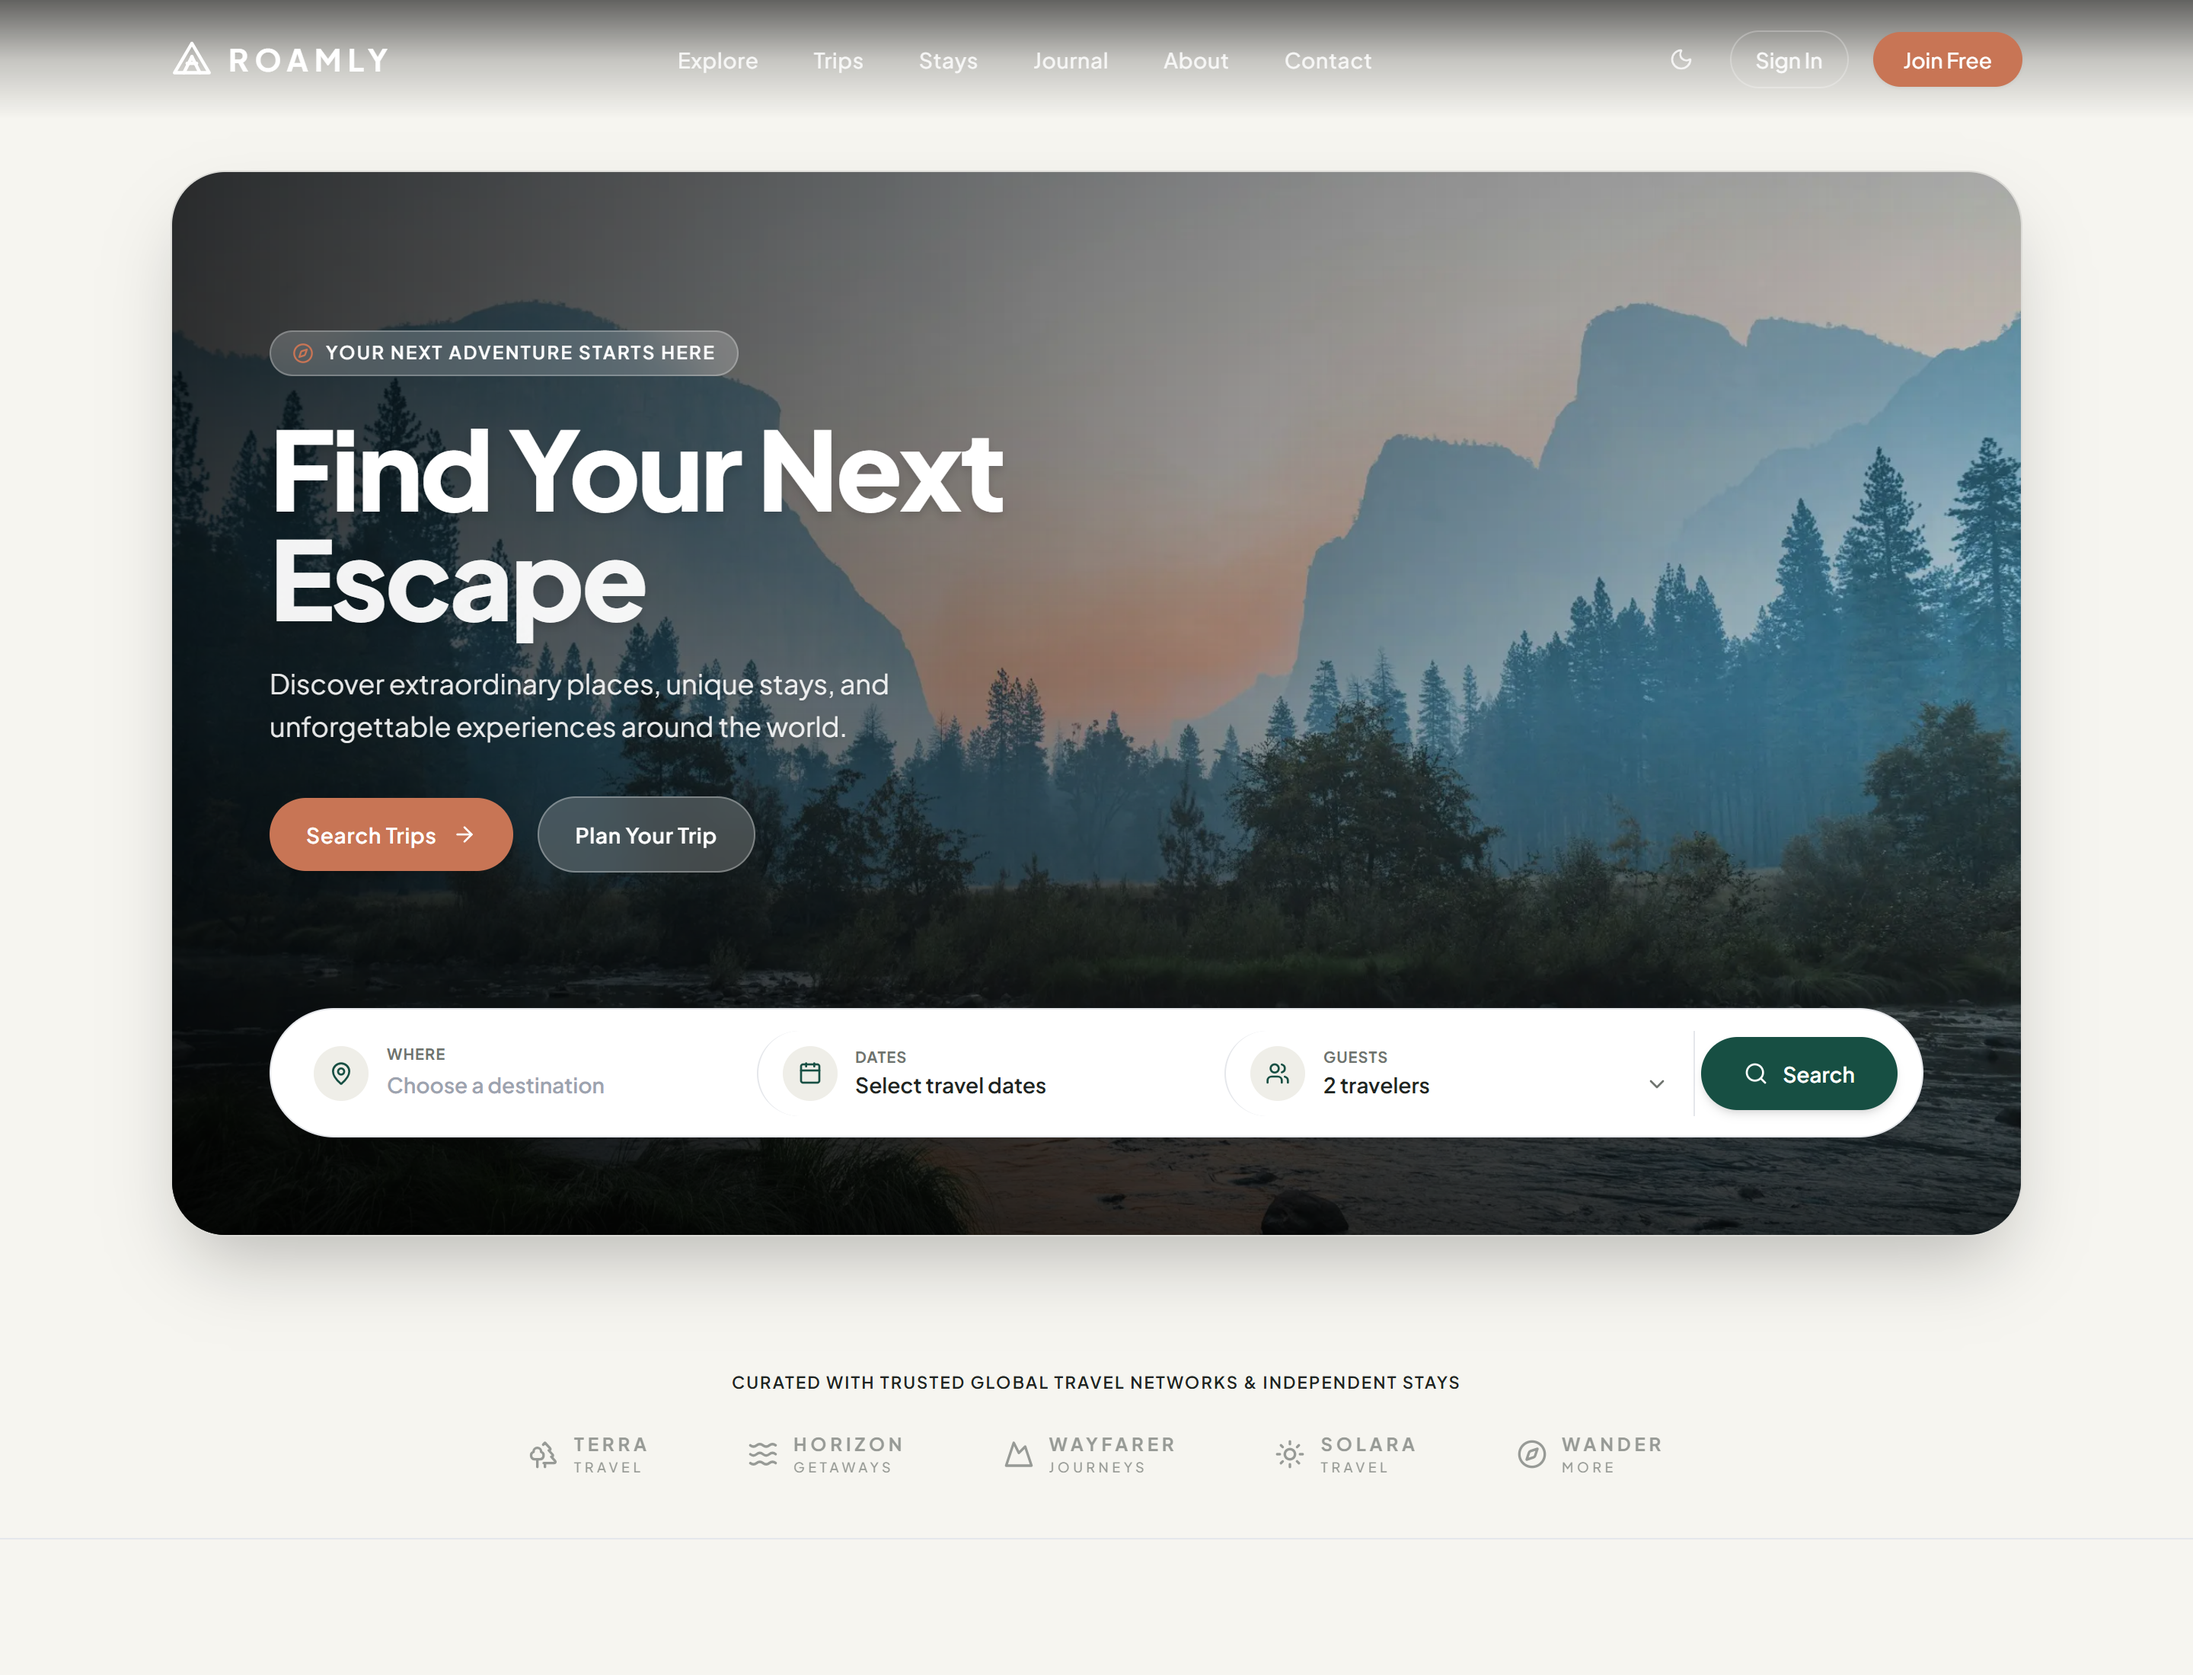
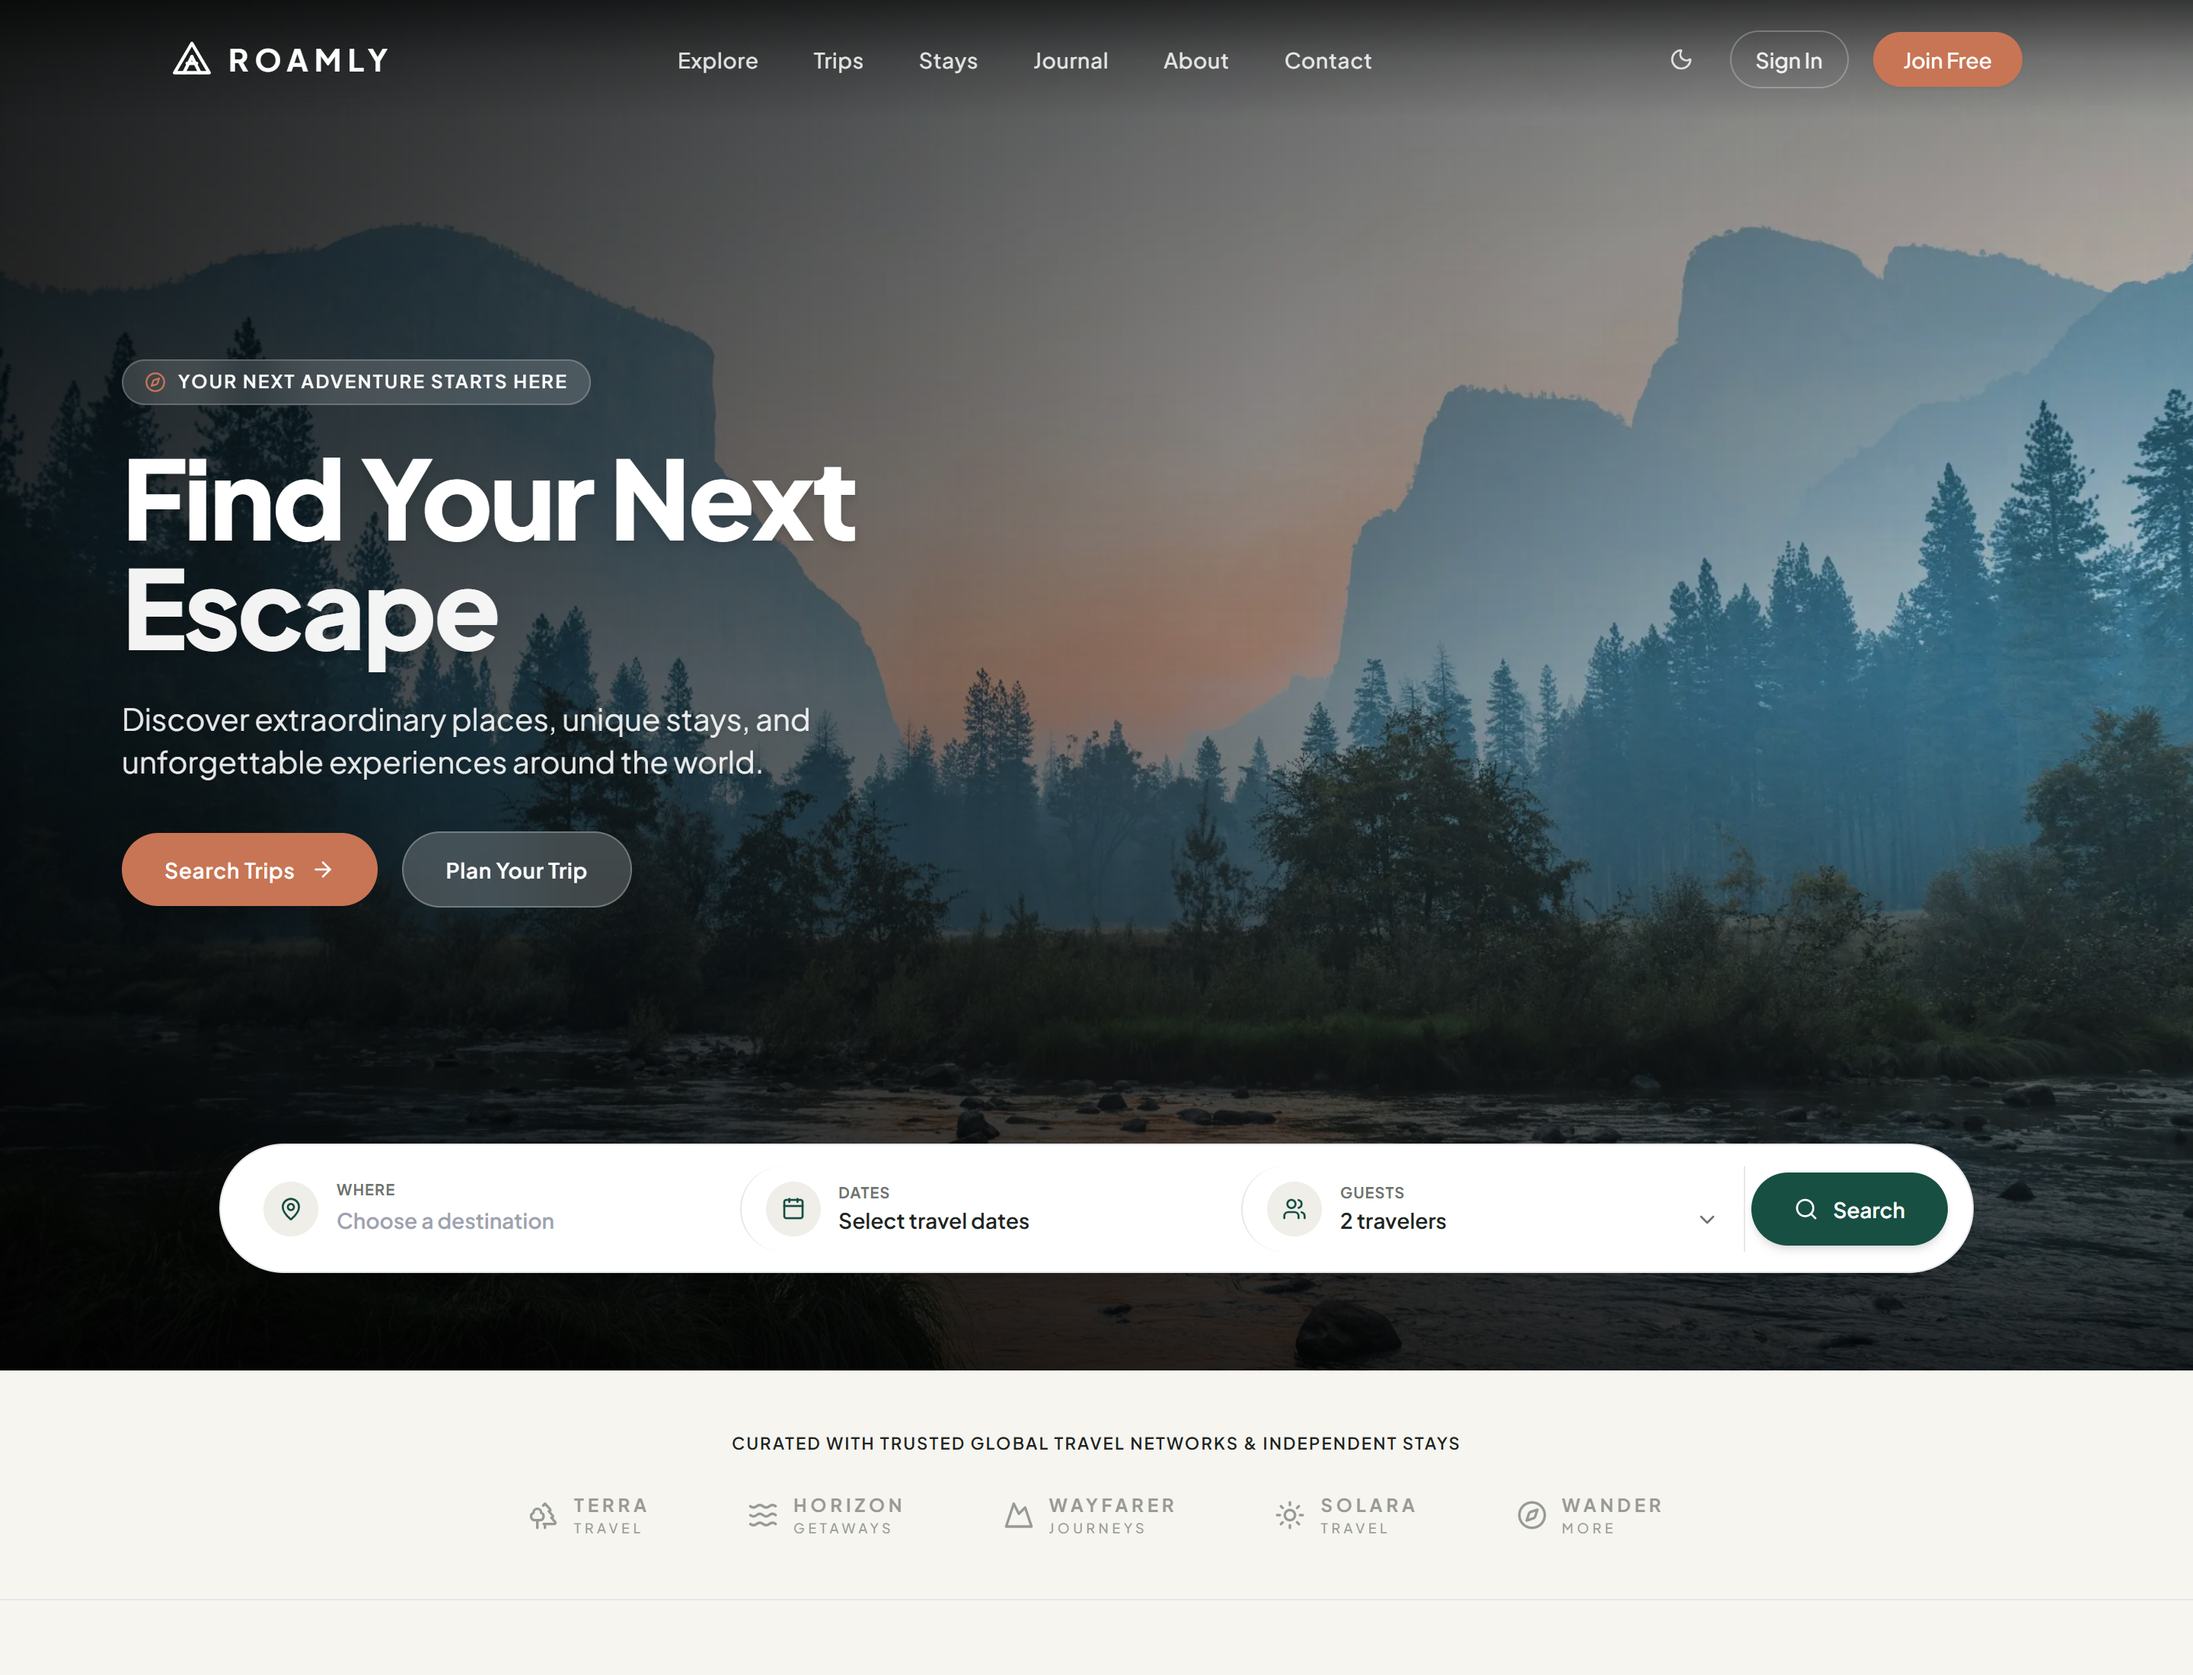
feat: make hero section full-screen edge-to-edge and update visual screenshots

diff --git a/src/components/home/HeroSection.tsx b/src/components/home/HeroSection.tsx
@@ -8,32 +8,31 @@ import { TravelSearchPanel } from "./TravelSearchPanel";
 
 export function HeroSection() {
   return (
-    <section className="relative pt-24 sm:pt-28 pb-12 px-4 sm:px-6 lg:px-8 max-w-7xl mx-auto">
-      {/* Framed Scenic Hero Card Matching Reference 3 */}
-      <div className="relative rounded-[28px] sm:rounded-[36px] overflow-hidden min-h-[580px] sm:min-h-[640px] lg:min-h-[700px] flex flex-col justify-between p-6 sm:p-12 lg:p-16 shadow-2xl border border-black/10">
-        {/* Background Image Container with Alpine Mountain Lake & Road */}
-        <div className="absolute inset-0 z-0">
-          <Image
-            src="https://images.unsplash.com/photo-1506744038136-46273834b3fb?auto=format&fit=crop&w=2200&q=85"
-            alt="Scenic alpine road trip through majestic peaks, turquoise lake, and evergreen pines"
-            fill
-            priority
-            sizes="(max-width: 1280px) 100vw, 1280px"
-            className="object-cover object-[center_55%]"
-          />
-          {/* Subtle directional gradients for crisp contrast */}
-          <div className="absolute inset-0 bg-gradient-to-r from-black/75 via-black/35 to-transparent" />
-          <div className="absolute inset-0 bg-gradient-to-t from-black/70 via-transparent to-black/20" />
-        </div>
+    <section className="relative w-full min-h-screen flex flex-col justify-between pt-32 sm:pt-36 pb-12 sm:pb-16 px-4 sm:px-6 lg:px-8 overflow-hidden">
+      {/* Edge-to-Edge Full-Screen Background Image */}
+      <div className="absolute inset-0 -z-10 w-full h-full overflow-hidden">
+        <Image
+          src="https://images.unsplash.com/photo-1506744038136-46273834b3fb?auto=format&fit=crop&w=2600&q=85"
+          alt="Full-screen scenic alpine road trip with majestic mountains, evergreen pines, and turquoise lake"
+          fill
+          priority
+          sizes="100vw"
+          className="object-cover object-[center_35%] scale-[1.02]"
+        />
+        {/* Subtle cinematic overlays for legibility */}
+        <div className="absolute inset-0 bg-gradient-to-r from-black/80 via-black/40 to-transparent" />
+        <div className="absolute inset-0 bg-gradient-to-t from-black/75 via-transparent to-black/35" />
+      </div>
 
-        {/* Hero Content Area */}
-        <div className="relative z-10 max-w-2xl lg:max-w-3xl pt-6 sm:pt-10">
+      {/* Main Hero Content Area */}
+      <div className="max-w-7xl mx-auto w-full z-10 flex-1 flex flex-col justify-center">
+        <div className="max-w-2xl lg:max-w-3xl">
           {/* Eyebrow badge */}
           <motion.div
             initial={{ opacity: 0, y: 15 }}
             animate={{ opacity: 1, y: 0 }}
             transition={{ duration: 0.6, ease: "easeOut" }}
-            className="inline-flex items-center gap-2 px-3.5 py-1.5 rounded-full bg-white/20 backdrop-blur-md border border-white/25 text-white text-xs font-semibold tracking-widest uppercase mb-6"
+            className="inline-flex items-center gap-2 px-3.5 py-1.5 rounded-full bg-white/15 backdrop-blur-md border border-white/20 text-white text-xs font-semibold tracking-widest uppercase mb-6"
           >
             <Compass className="w-3.5 h-3.5 text-accent" />
             <span>Your Next Adventure Starts Here</span>
@@ -55,7 +54,7 @@ export function HeroSection() {
             initial={{ opacity: 0, y: 20 }}
             animate={{ opacity: 1, y: 0 }}
             transition={{ duration: 0.7, delay: 0.2, ease: "easeOut" }}
-            className="mt-5 text-base sm:text-lg text-white/90 max-w-lg font-normal leading-relaxed drop-shadow"
+            className="mt-6 text-base sm:text-lg lg:text-xl text-white/90 max-w-xl font-normal leading-relaxed drop-shadow"
           >
             Discover extraordinary places, unique stays, and unforgettable
             experiences around the world.
@@ -70,7 +69,7 @@ export function HeroSection() {
           >
             <Link
               href="/trips"
-              className="inline-flex items-center gap-2.5 px-6 py-3.5 rounded-full bg-accent hover:bg-accent-hover text-white text-sm font-semibold tracking-wide shadow-lg shadow-accent/25 hover:shadow-xl transition-all active:scale-95 focus-visible:outline-none focus-visible:ring-2 focus-visible:ring-accent"
+              className="inline-flex items-center gap-2.5 px-7 py-3.5 rounded-full bg-accent hover:bg-accent-hover text-white text-sm font-semibold tracking-wide shadow-lg shadow-accent/25 hover:shadow-xl transition-all active:scale-95 focus-visible:outline-none focus-visible:ring-2 focus-visible:ring-accent"
             >
               <span>Search Trips</span>
               <ArrowRight className="w-4 h-4" />
@@ -78,23 +77,23 @@ export function HeroSection() {
 
             <Link
               href="/destinations"
-              className="inline-flex items-center gap-2 px-6 py-3.5 rounded-full bg-white/20 hover:bg-white/30 backdrop-blur-md border border-white/30 text-white text-sm font-semibold tracking-wide transition-all active:scale-95 focus-visible:outline-none focus-visible:ring-2 focus-visible:ring-white"
+              className="inline-flex items-center gap-2 px-7 py-3.5 rounded-full bg-white/20 hover:bg-white/30 backdrop-blur-md border border-white/25 text-white text-sm font-semibold tracking-wide transition-all active:scale-95 focus-visible:outline-none focus-visible:ring-2 focus-visible:ring-white"
             >
               Plan Your Trip
             </Link>
           </motion.div>
         </div>
-
-        {/* Floating Travel Search Panel overlapping bottom boundary */}
-        <motion.div
-          initial={{ opacity: 0, y: 25 }}
-          animate={{ opacity: 1, y: 0 }}
-          transition={{ duration: 0.8, delay: 0.4, ease: "easeOut" }}
-          className="relative z-20 w-full mt-10 sm:mt-12"
-        >
-          <TravelSearchPanel />
-        </motion.div>
       </div>
+
+      {/* Floating Travel Search Panel near bottom of full-screen hero */}
+      <motion.div
+        initial={{ opacity: 0, y: 25 }}
+        animate={{ opacity: 1, y: 0 }}
+        transition={{ duration: 0.8, delay: 0.4, ease: "easeOut" }}
+        className="max-w-6xl mx-auto w-full z-20 mt-12 sm:mt-16"
+      >
+        <TravelSearchPanel />
+      </motion.div>
     </section>
   );
 }
